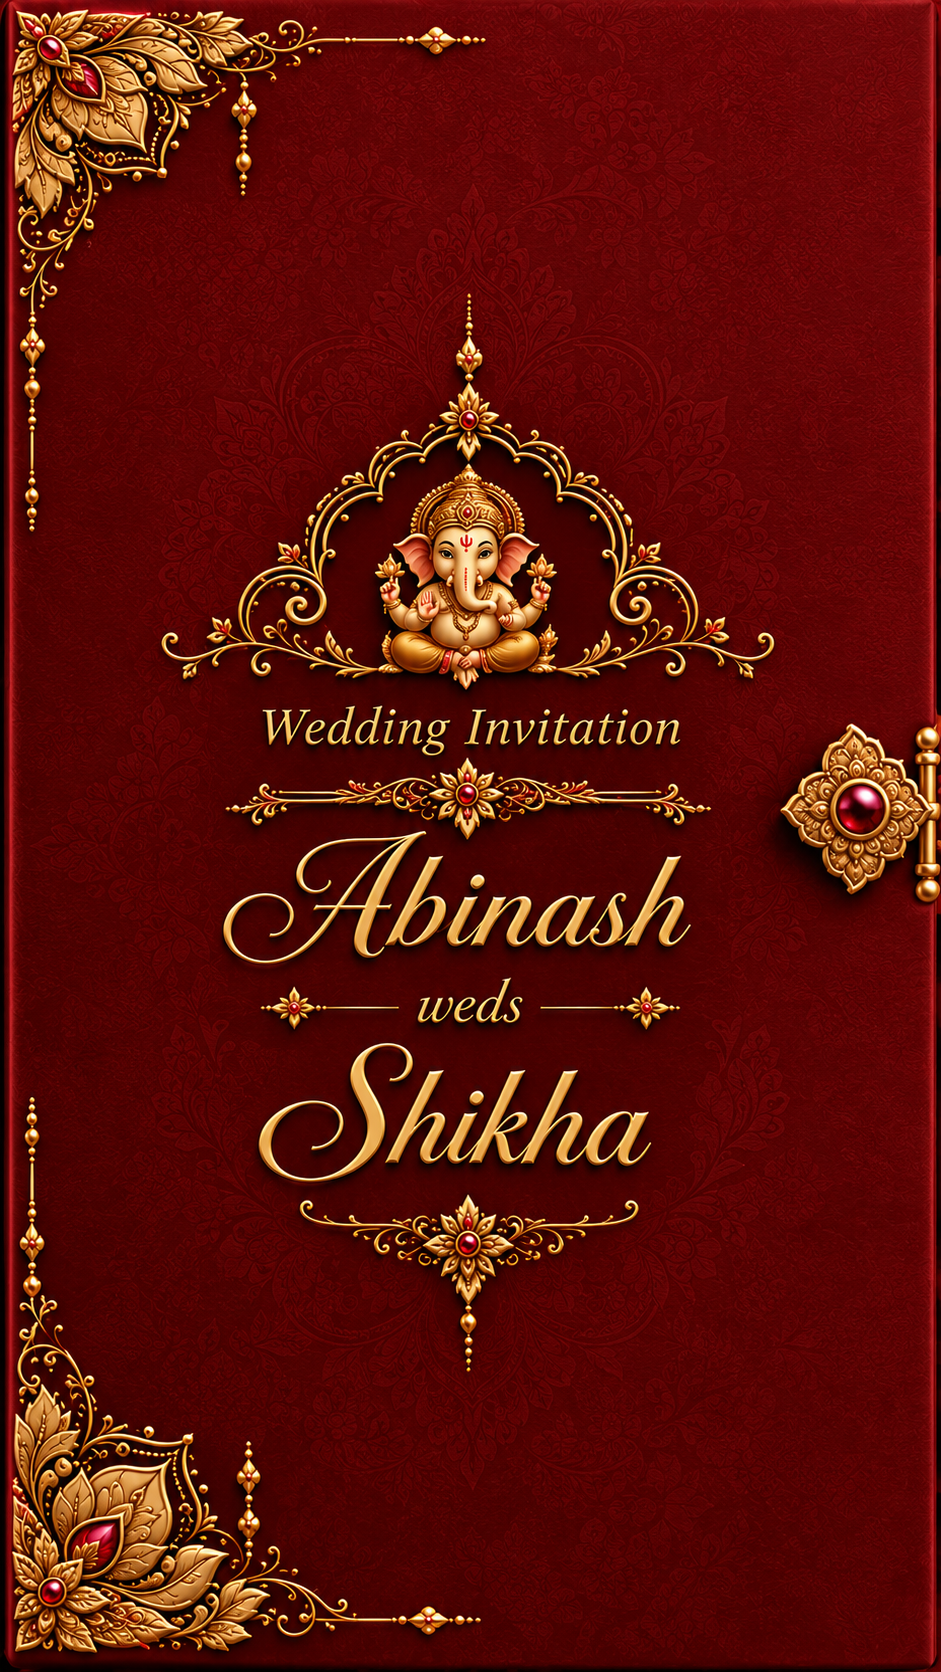
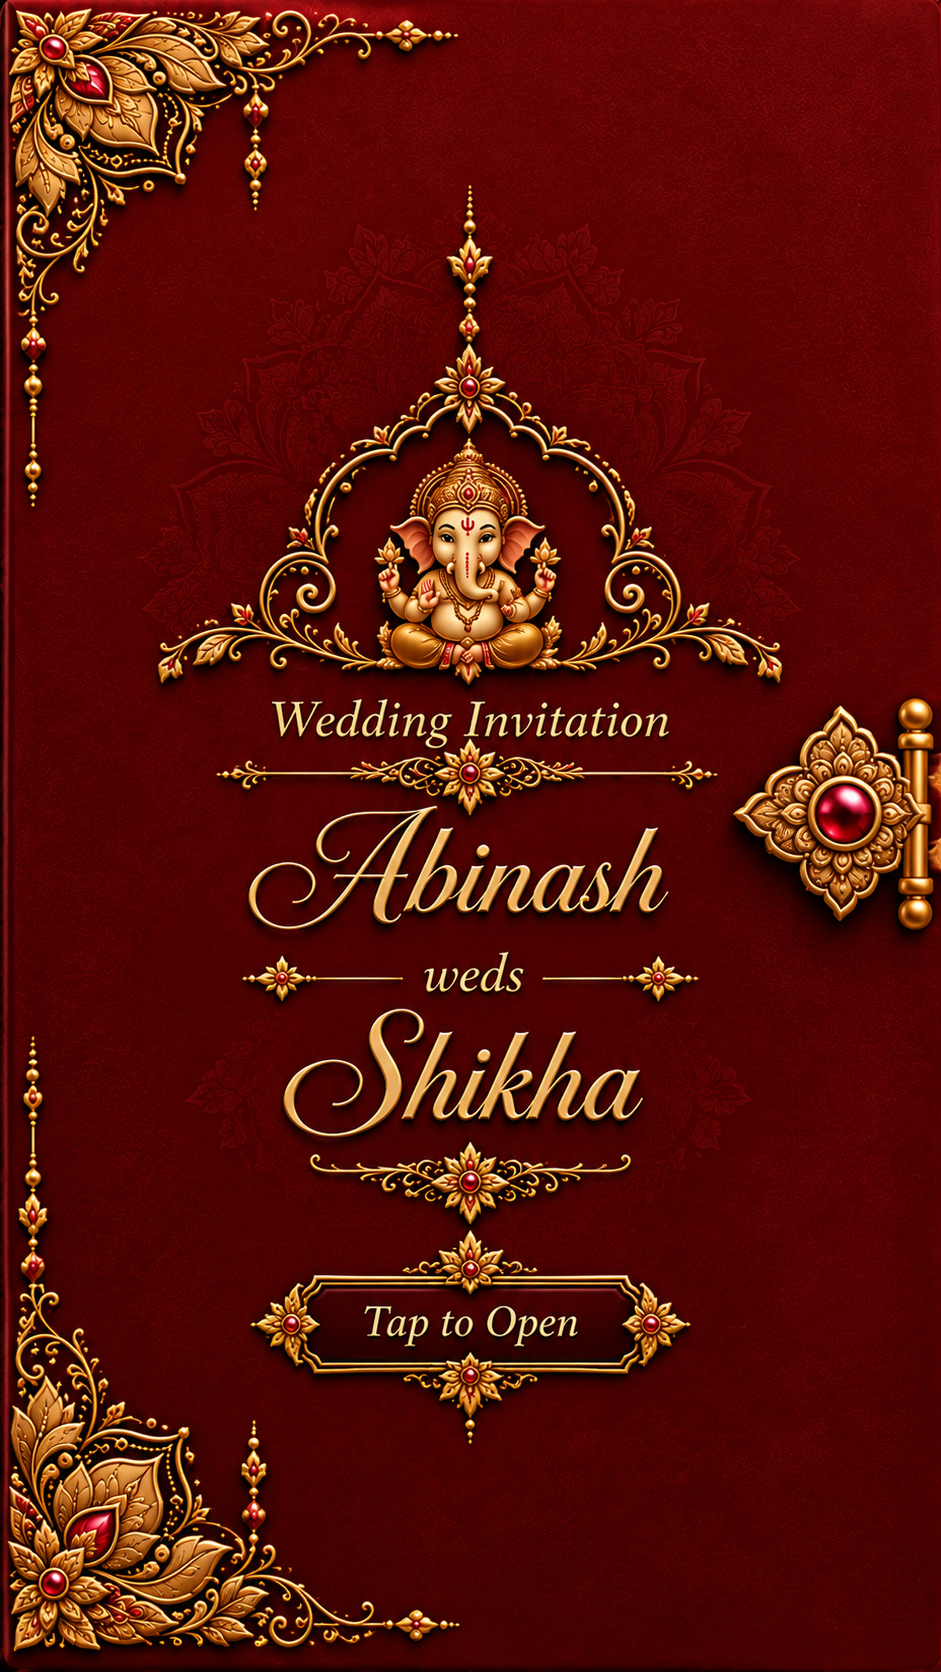
change invitation image

diff --git a/abhinash-shikha-wedding/src/components/InvitationCover.jsx b/abhinash-shikha-wedding/src/components/InvitationCover.jsx
@@ -11,7 +11,7 @@ export const InvitationCover = ({ onOpen }) => {
   const handleOpen = () => {
     if (isOpening) return;
     setIsOpening(true);
-    timerRef.current = setTimeout(onOpen, prefersReducedMotion ? 1800 : 3000);
+    timerRef.current = setTimeout(onOpen, prefersReducedMotion ? 1800 : 4000);
   };
 
   return (
@@ -32,7 +32,7 @@ export const InvitationCover = ({ onOpen }) => {
           animate={isOpening
             ? { opacity: 1, scale: 1.08, filter: 'blur(0px)' }
             : { opacity: 0.08, scale: 0.78, filter: 'blur(10px)' }}
-          transition={{ duration: prefersReducedMotion ? 0.01 : 2.8, delay: prefersReducedMotion ? 0 : 0.15, ease: [0.22, 0.68, 0.24, 1] }}
+          transition={{ duration: prefersReducedMotion ? 0.01 : 3.8, delay: prefersReducedMotion ? 0 : 0.15, ease: [0.22, 0.68, 0.24, 1] }}
           aria-hidden="true"
         >
           {isOpening && (

diff --git a/abhinash-shikha-wedding/src/components/WeddingExperience.jsx b/abhinash-shikha-wedding/src/components/WeddingExperience.jsx
@@ -2,7 +2,6 @@ import { useState } from 'react';
 import { motion, AnimatePresence, useReducedMotion } from 'framer-motion';
 import {
   ArrowLeft,
-  ArrowRight,
   MapPin,
   Sun,
   Sparkles,
@@ -647,7 +646,6 @@ export const WeddingExperience = ({ onBackToDoors, onOpenEngagement }) => {
             className="engagement-gallery-cta relative z-10 inline-flex items-center justify-center gap-3 rounded-full px-6 sm:px-7 py-3.5 text-xs sm:text-sm font-display uppercase tracking-[0.12em] font-semibold"
           >
             <span>Explore Our Engagement Gallery</span>
-            <ArrowRight className="w-4 h-4" />
           </button>
         </motion.section>
 
